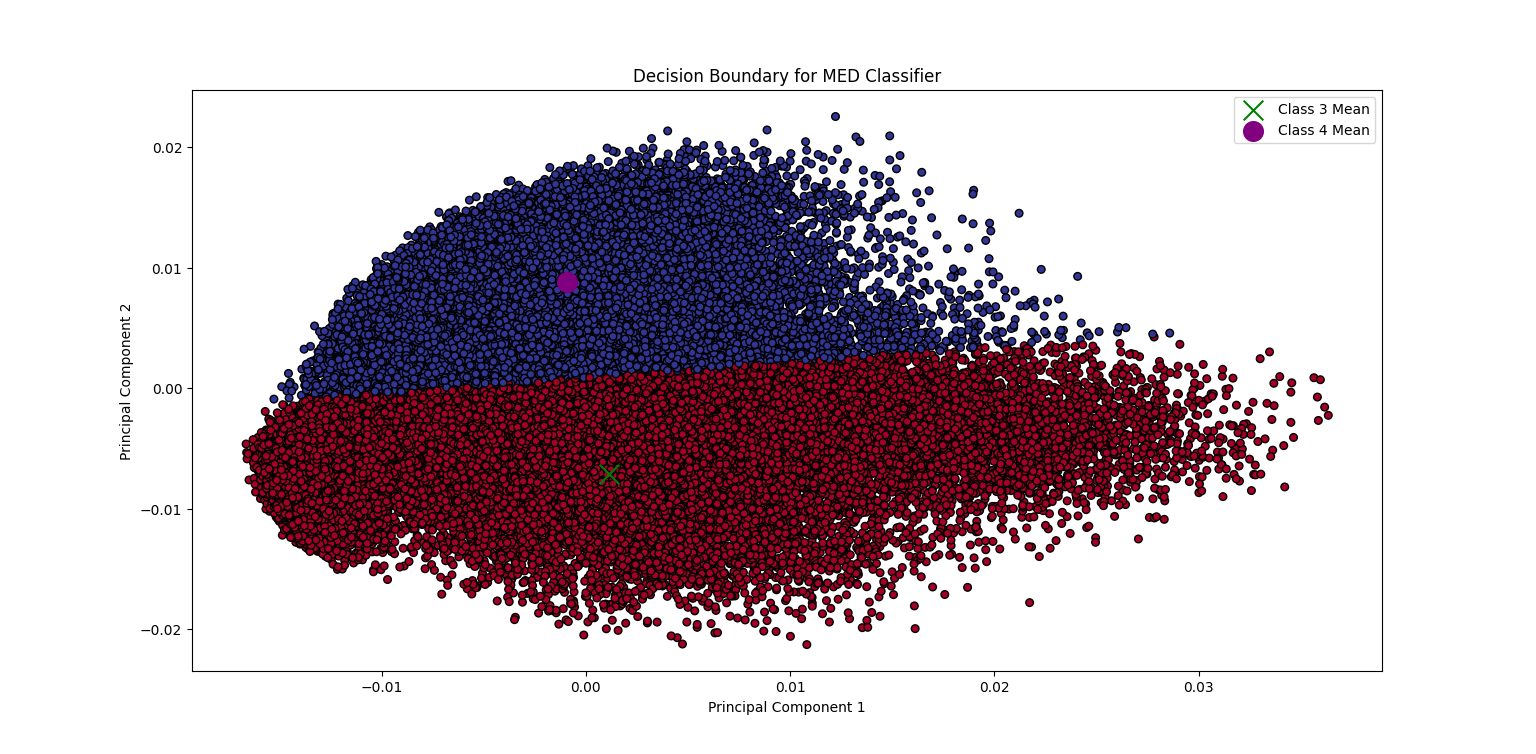
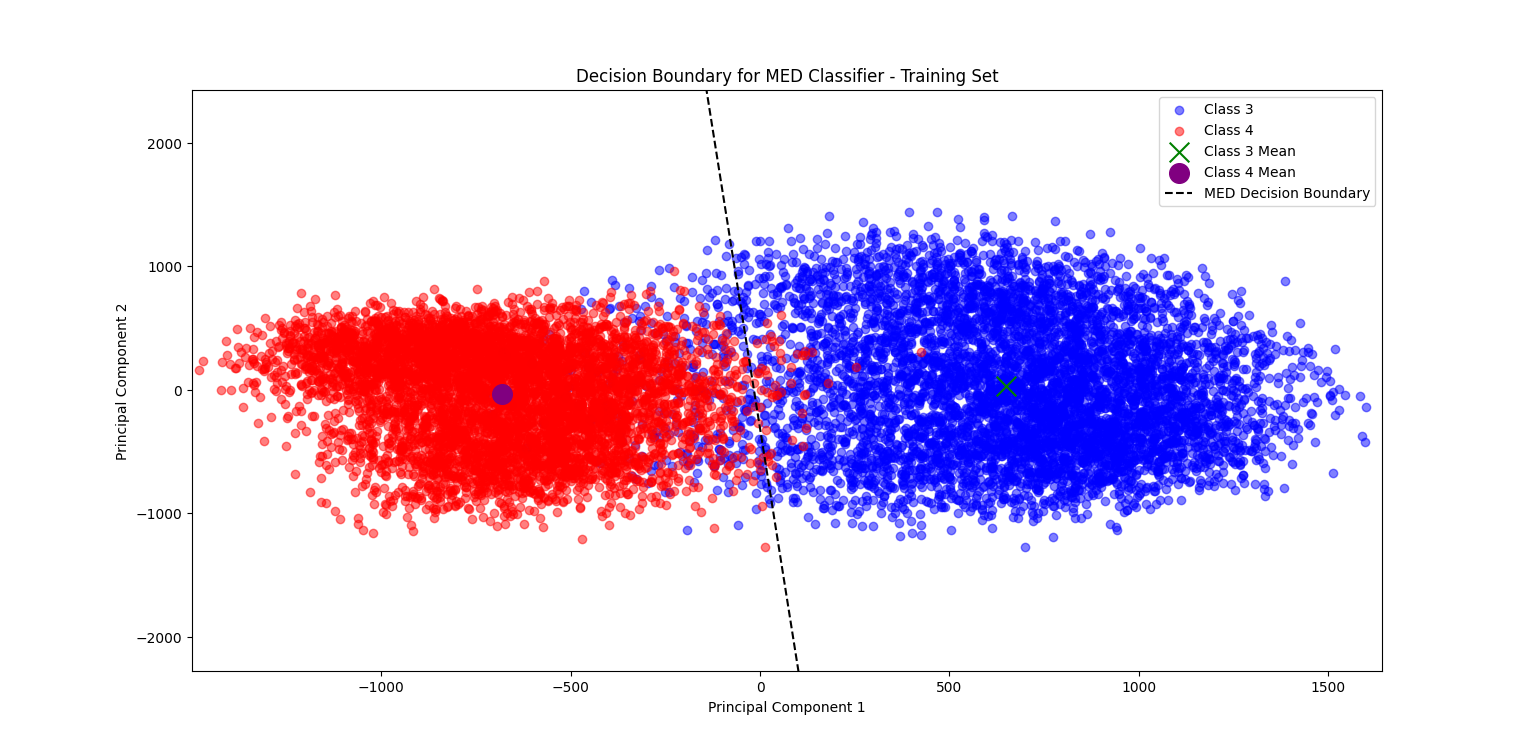
Correct MED Classifier boundary line

diff --git a/A1/Question 1/ex_1.py b/A1/Question 1/ex_1.py
@@ -42,8 +42,6 @@
 # plt.legend()
 # plt.show()
 
-
-
 import numpy as np
 import matplotlib.pyplot as plt
 from sklearn.decomposition import PCA
@@ -83,36 +81,103 @@ X_pca = pca.fit_transform(X)
 X_class3 = X_pca[y == 0]
 X_class4 = X_pca[y == 1]
 
-# Implement MED classifier
-med_threshold = np.mean(X_pca, axis=0)
+# Calculate the mean of each class
+mean_class3 = np.mean(X_class3, axis=0)
+mean_class4 = np.mean(X_class4, axis=0)
 
-# Implement MMD classifier
-covariance_class3 = np.cov(X_class3, rowvar=False)
-covariance_class3_inv = np.linalg.inv(covariance_class3)
+# Calculate the slope of the decision boundary (perpendicular bisector)
+slope = -(mean_class4[0] - mean_class3[0]) / (mean_class4[1] - mean_class3[1])
 
-covariance_class4 = np.cov(X_class4, rowvar=False)
-covariance_class4_inv = np.linalg.inv(covariance_class4)
+# Calculate the midpoint of the decision boundary
+midpoint = [(mean_class3[0] + mean_class4[0]) / 2, (mean_class3[1] + mean_class4[1]) / 2]
 
-mmd_threshold = np.mean(X_class3, axis=0) + np.mean(X_class4, axis=0)
-
-# Plotting decision boundaries on the training set
+# Plotting decision boundary and training data
 plt.scatter(X_class3[:, 0], X_class3[:, 1], label='Class 3', c='blue', alpha=0.5)
 plt.scatter(X_class4[:, 0], X_class4[:, 1], label='Class 4', c='red', alpha=0.5)
-plt.scatter(med_threshold[0], med_threshold[1], marker='x', s=200, c='green', label='MED Threshold', alpha=1.0)
-plt.scatter(mmd_threshold[0], mmd_threshold[1], marker='o', s=200, c='purple', label='MMD Threshold', alpha=1.0)
+plt.scatter(mean_class3[0], mean_class3[1], marker='x', s=200, c='green', label='Class 3 Mean')
+plt.scatter(mean_class4[0], mean_class4[1], marker='o', s=200, c='purple', label='Class 4 Mean')
 
-# Decision boundary for MED classifier
-x_med = np.linspace(np.min(X_pca[:, 0]), np.max(X_pca[:, 0]), 100)
-y_med = (med_threshold[1] / med_threshold[0]) * x_med
-plt.plot(x_med, y_med, label='MED Decision Boundary', linestyle='--', color='green')
+# Plot the decision boundary
+x_vals = np.linspace(np.min(X_pca[:, 0]), np.max(X_pca[:, 0]), 100)
+y_vals = slope * (x_vals - midpoint[0]) + midpoint[1]
+plt.plot(x_vals, y_vals, label='MED Decision Boundary', linestyle='--', color='black')
 
-# Decision boundary for MMD classifier
-x_mmd = np.linspace(np.min(X_pca[:, 0]), np.max(X_pca[:, 0]), 100)
-y_mmd = (mmd_threshold[1] / mmd_threshold[0]) * x_mmd
-plt.plot(x_mmd, y_mmd, label='MMD Decision Boundary', linestyle='--', color='purple')
-
-plt.title('Decision Boundaries for MED and MMD Classifiers - Training Set')
+plt.title('Decision Boundary for MED Classifier - Training Set')
 plt.xlabel('Principal Component 1')
 plt.ylabel('Principal Component 2')
 plt.legend()
 plt.show()
+
+
+# import numpy as np
+# import matplotlib.pyplot as plt
+# from sklearn.decomposition import PCA
+# from mnist import MNIST
+
+# # Load the MNIST dataset
+# mndata = MNIST('mnist_data')
+# numbers, classes = mndata.load_training()
+
+# # Filter out only classes 3 and 4
+# class3_images = []
+# class4_images = []
+
+# for i, label in enumerate(classes):
+#     if label == 3:
+#         class3_images.append(numbers[i])
+#     elif label == 4:
+#         class4_images.append(numbers[i])
+
+# # Convert lists to numpy arrays
+# class3_images = np.array(class3_images)
+# class4_images = np.array(class4_images)
+
+# # Flatten the images
+# class3_flat = class3_images.reshape((len(class3_images), -1))
+# class4_flat = class4_images.reshape((len(class4_images), -1))
+
+# # Combine the flattened images
+# X = np.vstack((class3_flat, class4_flat))
+# y = np.hstack((np.zeros(len(class3_flat)), np.ones(len(class4_flat))))
+
+# # Perform PCA to reduce dimensionality to 2
+# pca = PCA(n_components=2)
+# X_pca = pca.fit_transform(X)
+
+# # Separate data for classes 3 and 4 after PCA
+# X_class3 = X_pca[y == 0]
+# X_class4 = X_pca[y == 1]
+
+# # Implement MED classifier
+# med_threshold = np.mean(X_pca, axis=0)
+
+# # Implement MMD classifier
+# covariance_class3 = np.cov(X_class3, rowvar=False)
+# covariance_class3_inv = np.linalg.inv(covariance_class3)
+
+# covariance_class4 = np.cov(X_class4, rowvar=False)
+# covariance_class4_inv = np.linalg.inv(covariance_class4)
+
+# mmd_threshold = np.mean(X_class3, axis=0) + np.mean(X_class4, axis=0)
+
+# # Plotting decision boundaries on the training set
+# plt.scatter(X_class3[:, 0], X_class3[:, 1], label='Class 3', c='blue', alpha=0.5)
+# plt.scatter(X_class4[:, 0], X_class4[:, 1], label='Class 4', c='red', alpha=0.5)
+# plt.scatter(med_threshold[0], med_threshold[1], marker='x', s=200, c='green', label='MED Threshold', alpha=1.0)
+# plt.scatter(mmd_threshold[0], mmd_threshold[1], marker='o', s=200, c='purple', label='MMD Threshold', alpha=1.0)
+
+# # Decision boundary for MED classifier
+# x_med = np.linspace(np.min(X_pca[:, 0]), np.max(X_pca[:, 0]), 100)
+# y_med = (med_threshold[1] / med_threshold[0]) * x_med
+# plt.plot(x_med, y_med, label='MED Decision Boundary', linestyle='--', color='green')
+
+# # Decision boundary for MMD classifier
+# x_mmd = np.linspace(np.min(X_pca[:, 0]), np.max(X_pca[:, 0]), 100)
+# y_mmd = (mmd_threshold[1] / mmd_threshold[0]) * x_mmd
+# plt.plot(x_mmd, y_mmd, label='MMD Decision Boundary', linestyle='--', color='purple')
+
+# plt.title('Decision Boundaries for MED and MMD Classifiers - Training Set')
+# plt.xlabel('Principal Component 1')
+# plt.ylabel('Principal Component 2')
+# plt.legend()
+# plt.show()
